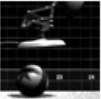
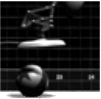
deploy: Storsjogymnasiet/WEBB100X-mide0720@dacda958bfeec12f426a7fd389c6ba95c09885c4

diff --git a/WEBB100X-mide0720/pixar/index.html b/WEBB100X-mide0720/pixar/index.html
@@ -20,32 +20,32 @@
             </p>
             <div class="projects">
                 <div class="project">
-                    <img src="images/dummy.png" alt="Tinny">
+                    <img src="images/tinny.png" alt="Tinny">
                     <br>
                     <a href="">About Pixar</a>
                 </div>
                 <div class="project">
-                    <img src="images/dummy.png" alt="Luxo, Jr">
+                    <img src="images/luxo.png" alt="Luxo, Jr">
                     <br>
                     <a href="">Recruiting</a>
                 </div>
                 <div class="project">
-                    <img src="images/dummy.png" alt="Red the Unicycle">
+                    <img src="images/red.png" alt="Red the Unicycle">
                     <br>
                     <a href="">Products</a>
                 </div>
                 <div class="project">
-                    <img src="images/dummy.png" alt="Woody">
+                    <img src="images/woody.png" alt="Woody">
                     <br>
                     <a href="">Toy Story</a>
                 </div>
                 <div class="project">
-                    <img src="images/dummy.png" alt="Buzz Lightyear">
+                    <img src="images/buzz.png" alt="Buzz Lightyear">
                     <br>
                     <a href="">Interactive</a>
                 </div>
                 <div class="project">
-                    <img src="images/dummy.png" alt="Knick">
+                    <img src="images/knick.png" alt="Knick">
                     <br>
                     <a href="">Fun Stuff</a>
                 </div>
@@ -56,8 +56,8 @@
                 <a href="https://google.com/maps/place/1001+W+Cutting+Blvd,+Richmond,+CA+94801,+USA/@37.9258485,-122.3842558,17z" target="_blank">1001 West Cutting Blvd.</a> | Richmond, CA 94804 | Phone: 510-236-4000 | Fax: 510-236-0388<br>
                 E-mail: <a href="mailto://webmaster@pixar.com">webmaster@pixar.com</a>
             </p>
-            <img src="images/end.png" alt="pixar">
-            <p>Last updated: September 10, 2026</p>
+            <img src="images/end.png" alt="pixar" class="icon">
+            <p>Last updated: September 17, 2026</p>
         </div>
     </body>
 </html>

diff --git a/WEBB100X-mide0720/style.css b/WEBB100X-mide0720/style.css
@@ -2,17 +2,30 @@
     --color-bg: light-dark(#f0f0f0,#0f0f0f);
     --color-fg: light-dark(#000,#fff);
     --color-link: #6495ed;
+
     --font: Arial,Helvetica,sans-serif;
+    --font-code: monospace;
+
     --size: max(calc(100vw/1920*5),calc(100vh/1920*10));
     --size-text: 4rem;
 }
 [data-theme="light"]{color-scheme:light;}
 [data-theme="dark"]{color-scheme:dark;}
+
+[data-theme="light"].icon{filter:invert(0);}
+[data-theme="dark"].icon{filter:invert(1);}
+[data-theme="light"].inverted-icon{filter:invert(1);}
+[data-theme="dark"].inverted-icon{filter:invert(0);}
+
 @media(prefers-color-scheme:dark){
     :root:not([data-theme]){color-scheme:dark;}
+    :root:not([data-theme]).icon{filter:invert(1);}
+    :root:not([data-theme]).inverted-icon{filter:invert(0);}
 }
 @media(prefers-color-scheme:light){
     :root:not([data-theme]){color-scheme:light;}
+    :root:not([data-theme]).icon{filter:invert(0);}
+    :root:not([data-theme]).inverted-icon{filter:invert(1);}
 }
 *{
     background: transparent;

diff --git a/WEBB100X-mide0720/pixar/style.css b/WEBB100X-mide0720/pixar/style.css
@@ -1,3 +1,4 @@
+@import url("../style.css");
 :root {
     --title-font: charlemagne, "times new roman", sans-serif;
     --font: "times new roman", sans-serif;
@@ -14,7 +15,8 @@ html, body{
 }
 a{
     color: var(--link-color);
-    text-decoration: underline;
+    text-decoration: underline!important;
+    font-size: inherit;
 }
 a:link, a:visited{
     border-bottom: 1px solid transparent;
@@ -67,13 +69,17 @@ hr.title{
     margin-top:7em;
 }
 .projects{
-    display: inline-block;
+    display: block;
     margin-bottom: 10px;
     height: fit-content;
+    text-align: center;
 }
 .project{
     text-align: center;
-    float: left;
+    display: inline-block;
+    vertical-align: bottom;
+    float: none;
+    margin: 0 2px;
 }
 .project img{
     width: 20em;
